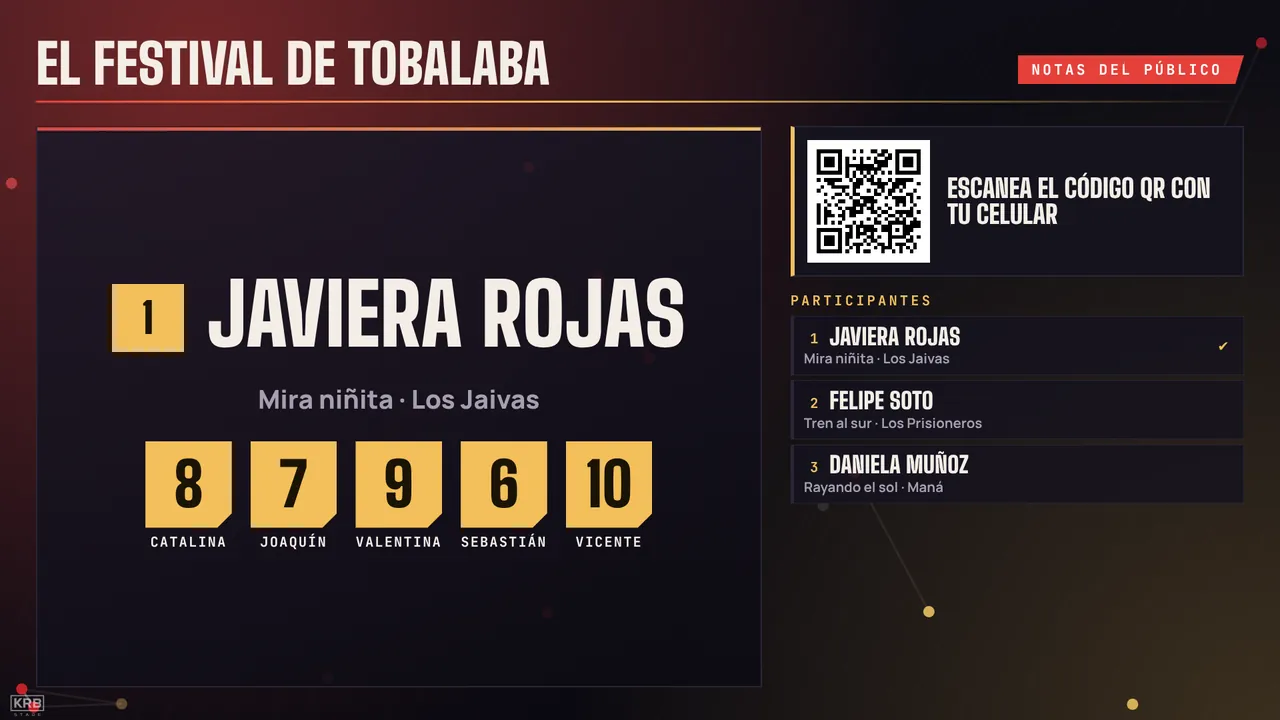
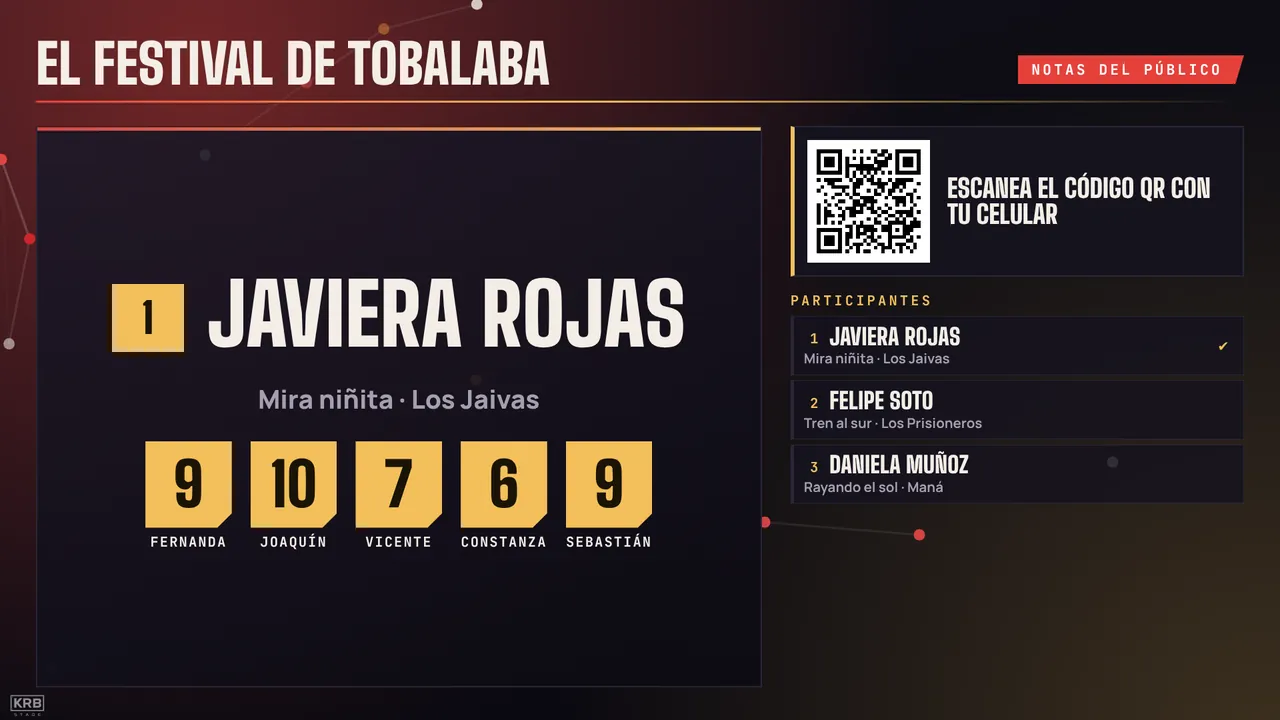
Web (KRB Interactivo): capturas nuevas con el diseño actual, ¿Quién quiere ser ganador?, votación del juego y El Rosko con K
Claude-Session: https://claude.ai/code/session_01LKJaPxTaAn6biDBG3JnbbJ

diff --git a/krbstage-web/index.html b/krbstage-web/index.html
@@ -1141,12 +1141,12 @@ footer .envoltura{display:flex;justify-content:space-between;gap:16px;flex-wrap:
         <div class="int-anim-txt">
           <div class="etiqueta">Animación interactiva</div>
           <h3>El juego y el show, en una sola experiencia</h3>
-          <p>El animador conduce cada juego paso a paso desde su panel: lo que lee en voz alta aparece grande y destacado, y solo se activa el botón del paso que toca. Mientras tanto, el público responde, vota y canta desde su celular.</p>
+          <p>El animador conduce cada juego paso a paso desde su panel: lo que lee en voz alta aparece grande y destacado, y el botón del paso que sigue va en verde, siempre en el mismo lugar. Mientras tanto, el público responde, vota y canta desde su celular.</p>
         </div>
-        <figure class="int-panel"><img src="interactivo/panel-rosco.webp?v=2" alt="Panel del animador de El Rosco, con los botones paso a paso" loading="lazy" width="1280" height="900"><figcaption>Panel del animador · El Rosco</figcaption></figure>
+        <figure class="int-panel"><img src="interactivo/panel-rosco.webp?v=3" alt="Panel del animador de El Rosko, con los botones paso a paso" loading="lazy" width="1280" height="900"><figcaption>Panel del animador · El Rosko</figcaption></figure>
       </div>
       <div class="int-pantallas"><!-- (pedido de Cote) imágenes reales de nuestras transmisiones, no armadas -->
-        <figure><div class="int-cam"><img src="interactivo/vivo-rosco.webp" alt="El Rosco en la transmisión en vivo desde Mercado Kennedy" loading="lazy" width="1280" height="720"></div><figcaption>El Rosco en vivo · Mercado Kennedy</figcaption></figure>
+        <figure><div class="int-cam"><img src="interactivo/vivo-rosco.webp" alt="El Rosko en la transmisión en vivo desde Mercado Kennedy" loading="lazy" width="1280" height="720"></div><figcaption>El Rosko en vivo · Mercado Kennedy</figcaption></figure>
         <figure><div class="int-cam"><img src="interactivo/vivo-bingo.webp" alt="El Bingo de Frida en la transmisión en vivo" loading="lazy" width="1280" height="720"></div><figcaption>El Bingo en vivo · Frida Kahlo</figcaption></figure>
         <figure><div class="int-cam"><img src="interactivo/vivo-karaoke.webp" alt="Karaoke en la transmisión en vivo desde Frida Kahlo" loading="lazy" width="1280" height="720"></div><figcaption>Karaoke en vivo · Frida Kahlo</figcaption></figure>
       </div>
@@ -2318,23 +2318,26 @@ function lineas(x,pts,dist,alfa){ // agrupa las líneas en 4 tonos: pocas órden
 (function(){
   const J=[
     {k:'bingo',n:'Bingo',c:'var(--frida)',et:'El Bingo de cada local',t:'Bingo',
-     p:'Cartones digitales en el celular, números con su letra en la pantalla y figuras que cambian en cada ronda. El ganador aparece al instante.',
+     p:'Cartones digitales en el celular, números con su letra en la pantalla y figuras que cambian en cada ronda. Al elegir la figura, aparece en grande en todas las pantallas, y el ganador aparece al instante.',
      li:['Cartones en el celular','Líneas, figuras y letras','Ganador al instante'],local:'bingo-local',cel:'bingo-cel'},
-    {k:'rosco',n:'El Rosco y la Trivia',c:'var(--kennedy)',et:'En el escenario y en el celular',t:'El Rosco',
-     p:'Elegimos 3 participantes al azar entre todos los conectados: una pregunta por cada letra y 2 minutos por participante. Mientras ellos juegan, todo el público responde la Trivia del Rosco desde su celular, con 3 alternativas y puntaje por rapidez.',
+    {k:'rosco',n:'El Rosko y la Trivia',c:'var(--kennedy)',et:'En el escenario y en el celular',t:'El Rosko',
+     p:'Elegimos 3 participantes al azar entre todos los conectados: una pregunta por cada letra y 2 minutos por participante. Mientras ellos juegan, todo el público responde la Trivia del Rosko desde su celular, con 3 alternativas y puntaje por rapidez.',
      li:['3 participantes al azar','2 minutos','Trivia para todo el público','Ranking en pantalla'],local:'rosco-local',cel:'trivia-cel'},
+    {k:'desafio',n:'¿Quién quiere ser ganador?',c:'#a77bff',et:'Un concursante, todo el salón jugando',t:'¿Quién quiere ser ganador?',
+     p:'Un concursante sube al escenario y responde 12 preguntas de 4 alternativas, cada vez más difíciles, con comodines: 50:50, pregunta al público, llamada y cambiar pregunta. Hay premios en 3 etapas y, si pierde, sorteamos a alguien del público que sigue desde la misma pregunta. Mientras tanto, todo el salón juega la Trivia del Ganador desde su celular.',
+     li:['12 preguntas','Premios en 3 etapas','Comodines','Trivia para todo el público'],local:'desafio-local',cel:'desafio-cel'},
     {k:'festival',n:'El Festival',c:'var(--tobalaba)',et:'Concurso de karaoke',t:'El Festival',
-     p:'Inscripción desde el celular con canción y artista. Después de cada canción, el público pone nota del 1 al 10, las notas aparecen en pantalla y los finalistas se definen con redoble de tambores.',
-     li:['Inscripción desde el celular','Notas del 1 al 10','Finalistas en pantalla'],local:'festival-local',cel:'festival-cel'},
+     p:'Inscripción desde el celular con canción y artista. El público pone nota del 1 al 10 mientras canta cada participante, aparecen 5 notas al azar en pantalla y los finalistas se definen con redoble de tambores.',
+     li:['Inscripción desde el celular','Nota mientras canta','Redoble para los finalistas'],local:'festival-local',cel:'festival-cel'},
     {k:'objeto',n:'El objeto más extraño',c:'var(--foco)',et:'Votación del público',t:'El objeto más extraño',
-     p:'Los participantes se inscriben desde el celular y presentan su objeto en el escenario. El público vota y la pantalla muestra al ganador.',
-     li:['Inscripción desde el celular','Votación en vivo'],local:'objeto-local'},
-    {k:'sorteo',n:'Sorteo de juegos',c:'var(--ok)',et:'La noche se arma en vivo',t:'Sorteo de juegos',
-     p:'Una tómbola en pantalla elige el siguiente juego de la noche. El que sale queda bloqueado para el sorteo siguiente, así cada noche es distinta.',
-     li:['Tómbola en pantalla','Cada noche distinta'],local:'sorteo-local'}
+     p:'Cinco participantes presentan su objeto en el escenario; si se inscriben más, se sortean en pantalla. El público le pone nota desde el celular y la gran final se define con los votos.',
+     li:['Inscripción desde el celular','Sorteo de participantes','Gran final'],local:'objeto-local'},
+    {k:'sorteo',n:'Sorteo y votación',c:'var(--ok)',et:'La noche se arma en vivo',t:'El público elige el juego',
+     p:'El siguiente juego de la noche sale de una tómbola en pantalla o lo vota el público desde el celular: los porcentajes se ven en vivo y gana el que tiene más de la mitad de los votos. Así cada noche es distinta.',
+     li:['Tómbola en pantalla','Votación desde el celular','Cada noche distinta'],local:'votojuego-local',cel:'votojuego-cel'}
   ];
   const tabs=document.getElementById('int-tabs'),caja=document.getElementById('int-juego');if(!tabs||!caja)return;
-  const img=(f,alt,cls)=>`<figure class="${cls}"><img src="interactivo/${f}.webp?v=2" alt="${alt}" loading="lazy"></figure>`;
+  const img=(f,alt,cls)=>`<figure class="${cls}"><img src="interactivo/${f}.webp?v=3" alt="${alt}" loading="lazy"></figure>`;
   function ver(i){
     const g=J[i];caja.style.setProperty('--c',g.c);
     tabs.querySelectorAll('.int-tab').forEach((b,k)=>{b.setAttribute('aria-selected',k===i);b.tabIndex=k===i?0:-1});

diff --git a/krbstage-web/demo.html b/krbstage-web/demo.html
@@ -680,7 +680,7 @@ function elegirDia(i){
   [...bDia.children].forEach((b,k)=>b.setAttribute('aria-pressed',k===i));
   MOMENTOS=[];
   (d.hours||[]).forEach(h=>{const p=plano(h.label),hora=h.time;
-    if(p.includes('JUEGOS')){MOMENTOS.push({id:'bingo',hora,nombre:'Juegos · Bingo'},{id:'rosco',hora,nombre:'Juegos · Trivia del Rosco'})}
+    if(p.includes('JUEGOS')){MOMENTOS.push({id:'bingo',hora,nombre:'Juegos · Bingo'},{id:'rosco',hora,nombre:'Juegos · Trivia del Rosko'})}
     else if(p.includes('PREVIA'))MOMENTOS.push({id:'previa',hora,nombre:'Previa'});
     else if(p.includes('SHOW'))MOMENTOS.push({id:'show',hora,nombre:'Show'});
     else if(p.includes('KARAOKE'))MOMENTOS.push({id:'karaoke',hora,nombre:'Karaoke'});
@@ -734,7 +734,7 @@ function previa(m){
   const juegos=(ctx.dia.hours||[]).some(h=>plano(h.label).includes('JUEGOS'));
   cel.innerHTML=`${sup()}<div><div class="c-eti">Hola, Valentina</div><div class="c-tit">¿Qué quieres hacer?</div></div>
    ${juegos?`<button class="c-btn" style="--c:var(--local)"><b></b><div>El Bingo de ${ctx.L.corto}<small>Tus cartones</small></div></button>
-   <button class="c-btn" style="--c:var(--frida)"><b></b><div>El Rosco<small>Trivia en vivo</small></div></button>`:''}
+   <button class="c-btn" style="--c:var(--frida)"><b></b><div>El Rosko<small>Trivia en vivo</small></div></button>`:''}
    <button class="c-btn" style="--c:var(--foco)"><b></b><div>Karaoke<small>Pide tu canción</small></div></button>
    <button class="c-btn" style="--c:var(--tobalaba)"><b></b><div>Cartelera<small>${esc((ctx.dia.hours||[]).map(h=>titulo(h.label)).join(' · '))}</small></div></button>
    ${juegos?'<button class="c-btn" style="--c:var(--ok)"><b></b><div>KRB Kids<small>Para los niños</small></div></button>':''}`;
@@ -774,11 +774,11 @@ function rosco(){
   const p=P[Math.floor(Math.random()*P.length)];const L='ABC';
   let mia=null,t0=Date.now(),dur=10000,fin=false;
   const base=[['Diego',940],['Camila',910],['Mesa 7',870],['Jorge',820],['Fernanda',790]];
-  tv.innerHTML=`<div class="t-eti">Trivia del Rosco · Pregunta 3 de 10</div>
+  tv.innerHTML=`<div class="t-eti">Trivia del Rosko · Pregunta 3 de 10</div>
     <div class="t-md" style="margin-top:3cqh;text-transform:none;font-family:var(--f-texto);font-weight:800;font-size:8cqh;line-height:1.1">${p.q}</div>
     <div class="reloj"><i id="reloj"></i></div><div class="t-tx" id="resp">Respondiendo: 0 personas</div>
     <div class="alts" id="alts-tv">${p.a.map((x,i)=>`<div><em>${L[i]}</em>${x}</div>`).join('')}</div>`;
-  cel.innerHTML=`${sup()}<div><div class="c-eti">Trivia del Rosco</div><div style="font-weight:800;font-size:15px;line-height:1.3;margin-top:4px">${p.q}</div></div>
+  cel.innerHTML=`${sup()}<div><div class="c-eti">Trivia del Rosko</div><div style="font-weight:800;font-size:15px;line-height:1.3;margin-top:4px">${p.q}</div></div>
     <div class="alt-cel" id="alt-cel">${p.a.map((x,i)=>`<button data-i="${i}"><em>${L[i]}</em>${x}</button>`).join('')}</div>
     <div class="aviso-cel" id="av">¡Responde rápido!</div>`;
   let n=0;I(()=>{if(fin)return;n+=Math.floor(Math.random()*9)+3;$('#resp').textContent=`Respondiendo: ${n} personas`},500);
@@ -791,7 +791,7 @@ function rosco(){
     if(mia&&mia.i===p.ok){const pts=Math.round(1000-mia.t/dur*300);lista.push({n:'Tú · Mesa 12',p:pts,yo:true});$('#av').textContent=`¡Correcta! ${pts} puntos`}
     else $('#av').textContent=mia?'Esta vez no. Viene otra pregunta':'Se acabó el tiempo';
     lista.sort((a,b)=>b.p-a.p);lista=lista.slice(0,5);
-    T(()=>{tv.innerHTML=`<div class="t-eti">Trivia del Rosco · Top 5</div><div class="t-tx" style="margin:2cqh 0 4cqh">Respuesta correcta: <b style="color:var(--ok)">${L[p.ok]} · ${p.a[p.ok]}</b></div>
+    T(()=>{tv.innerHTML=`<div class="t-eti">Trivia del Rosko · Top 5</div><div class="t-tx" style="margin:2cqh 0 4cqh">Respuesta correcta: <b style="color:var(--ok)">${L[p.ok]} · ${p.a[p.ok]}</b></div>
       <div class="ranking">${lista.map((x,i)=>`<div class="${x.yo?'yo':''}"><span>${i+1}. ${x.n}</span><span>${x.p}</span></div>`).join('')}</div>`;pulso()},1400)}
 }
 
